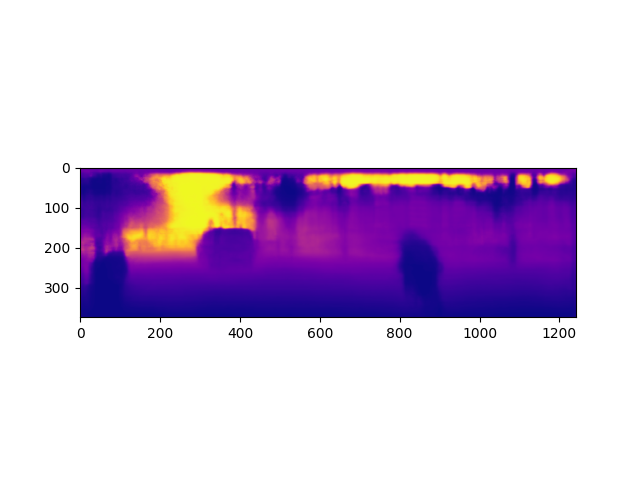
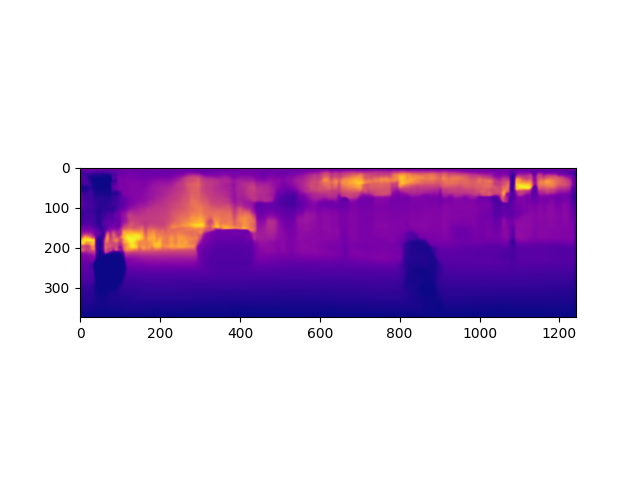
cbam on unet_out

diff --git a/infer.py b/infer.py
@@ -78,7 +78,7 @@ class InferenceHelper:
             self.max_depth = 80
             self.saving_factor = 256
             model = UnetAdaptiveBins.build(n_bins=80, min_val=self.min_depth, max_val=self.max_depth)
-            pretrained_path = "./pretrained/cbam_1_epoch_checkpoint.pt"
+            pretrained_path = "./pretrained/cbam_on_unet_out_2_epoch_checkpoint.pt"
         else:
             raise ValueError("dataset can be either 'nyu' or 'kitti' but got {}".format(dataset))
 
